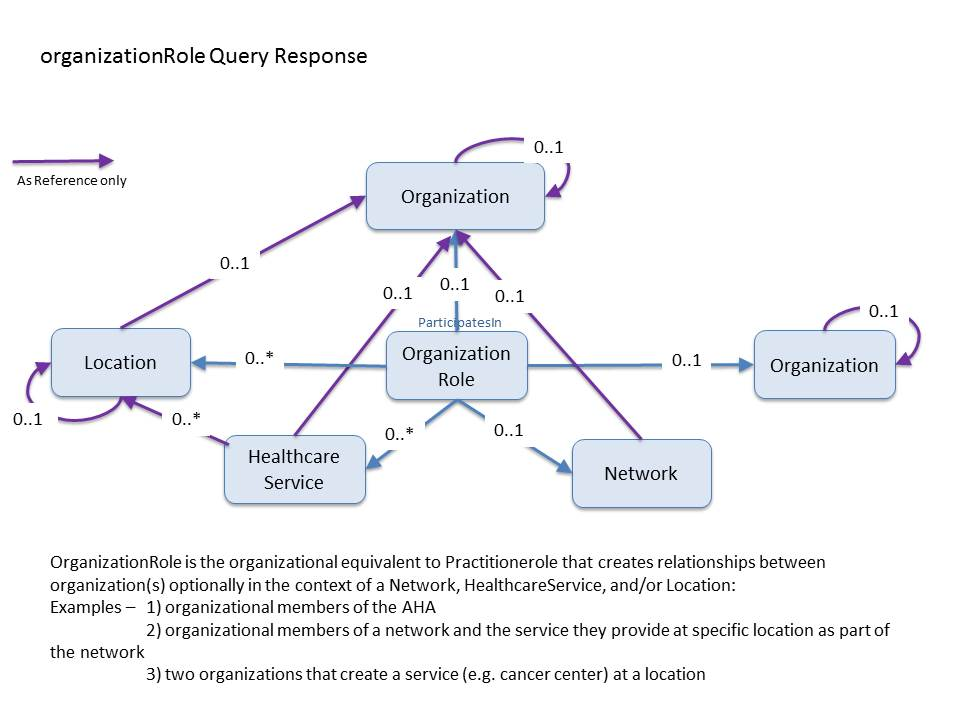
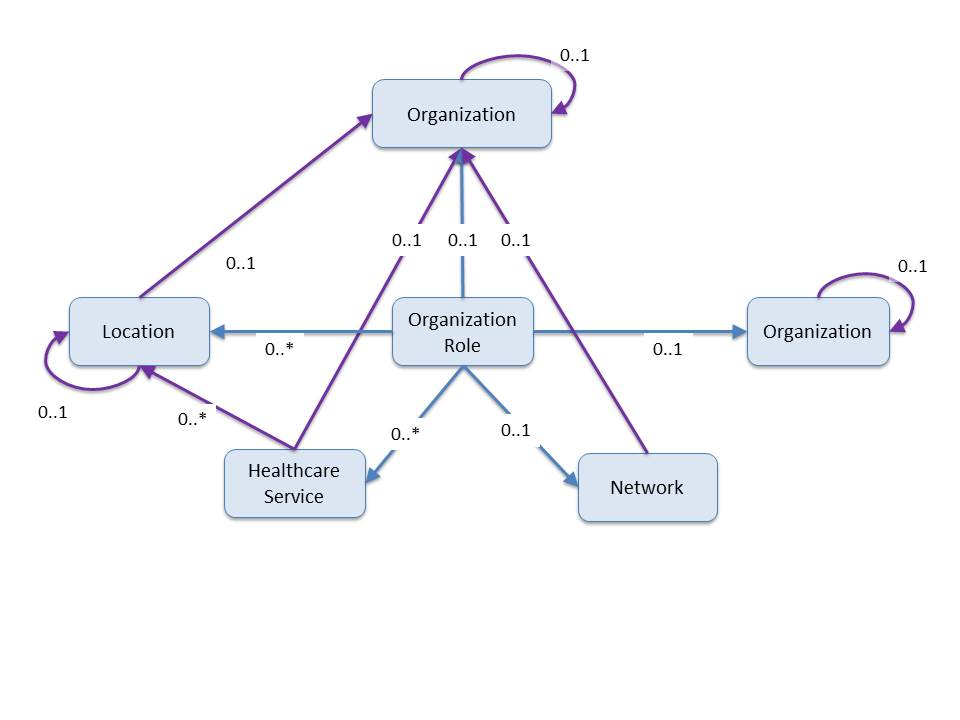
Updates to guidances page & diagrams.

diff --git a/pages/_includes/guidance.md b/pages/_includes/guidance.md
@@ -51,6 +51,8 @@ In the context of Validated Healthcare Directory , *Must Support* on any data el
 
 ### Practioner Role 
 
+In the context of HcDir an Organization, at the highest level, is a “business entity”. This includes for profit and not-for profit organizations, educational institutions, governmental departments or programs, etc. Organization may be further defined though a hierarchical relationship of any number of levels. This can account for departments, divisions, or any other sub-unit of the higher level organization. Here, within the context of practitioner role, one can see relationships such as a provider that provides a particular service at a particular location and accepts insurance (as part of a particular network) all on behalf of an organization. 
+
 <figure class="figure">
 <figcaption class="figure-caption"><strong>Figure 1: Example 1 - In progress</strong></figcaption>
   <img src="assets/images/Diagram1.jpg" class="figure-img img-responsive img-rounded center-block" alt="Diagram1.jpg" />
@@ -58,12 +60,16 @@ In the context of Validated Healthcare Directory , *Must Support* on any data el
 
 ### Organization Role
 
+Similar to the Practitioner Role above, Organization Role provides a means of describing the same data, but the reference point being the organization alone. Example include 1) the organizational members of an association (hospitals in a hospital association), 2) organizational members of an insurance network and the service they provide at specific location as part of the network, and 3) two distinct organizations in partnership creating a service (e.g. cancer center) at a location.
+
 <figure class="figure">
 <figcaption class="figure-caption"><strong>Figure 2: Example 2 - In progress</strong></figcaption>
   <img src="assets/images/Diagram2.jpg" class="figure-img img-responsive img-rounded center-block" alt="Diagram2.jpg" />
 </figure>
 
 ### Network / Product Plan
+
+Network is a group of practitioners and organizations optionally qualified by healthcare service and location that deliver healthcare services on behalf of a payer for individuals enrolled in a product/plan that have specific characteristics (e.g HMO, PPO, Specialty)
 
 <figure class="figure">
 <figcaption class="figure-caption"><strong>Figure 3: Example 3 - In Progress</strong></figcaption>
